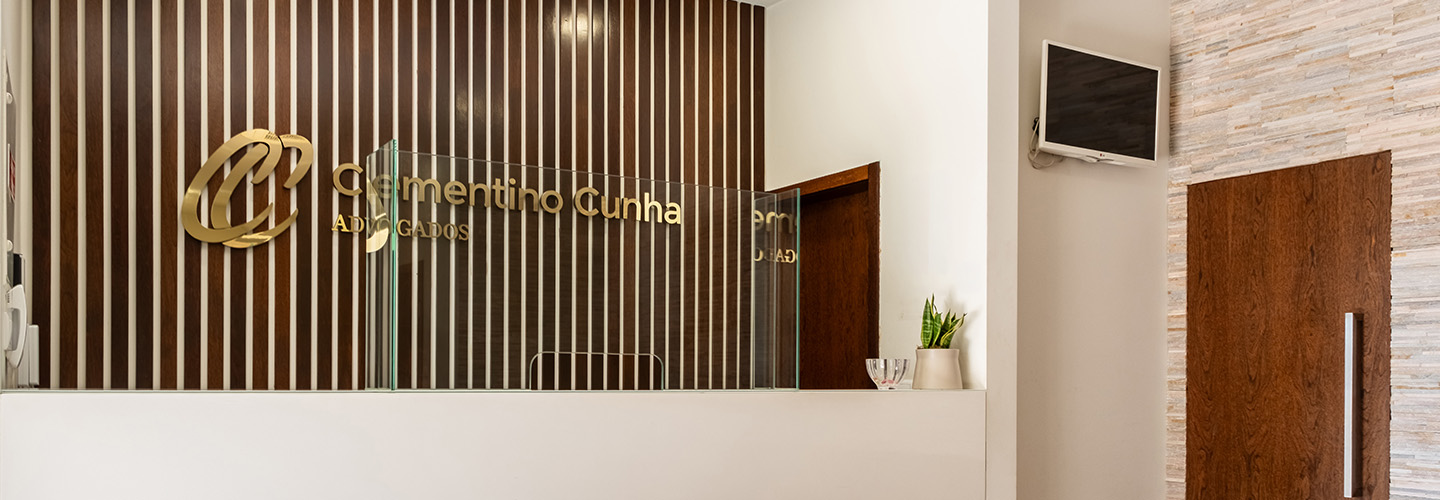
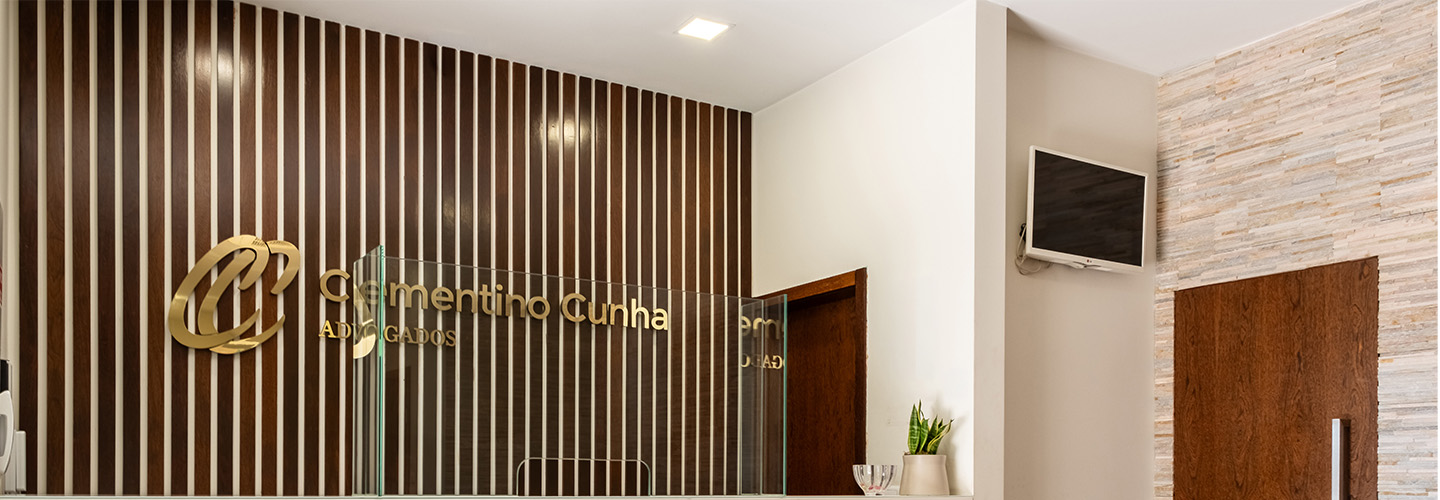
Alterações pontuais

diff --git a/index.html b/index.html
@@ -364,8 +364,6 @@
                         <div class="cca-about-slide" style="background-image: url('assets/img/img antigas/sobrenos2.jpg')"></div>
                         <div class="cca-about-slide" style="background-image: url('assets/img/img antigas/sobrenos1.jpg')"></div>
                         <div class="cca-about-slide" style="background-image: url('assets/img/img antigas/equipe.jpg')"></div>
-                        <div class="cca-about-slide" style="background-image: url('assets/img/escritorio/cc-escritorio-12.jpg')"></div>
-                        <div class="cca-about-slide" style="background-image: url('assets/img/escritorio/cc-fafe-07.jpg')"></div>
                     </div>
                     <button class="cca-about-arrow cca-about-prev" aria-label="Anterior">&#8592;</button>
                     <button class="cca-about-arrow cca-about-next" aria-label="Seguinte">&#8594;</button>
@@ -856,16 +854,16 @@
         <div class="swiper-container cca-bg-swiper">
             <div class="swiper-wrapper">
                 <div class="swiper-slide">
-                    <div class="cca-contact-bg-slide" style="background-image: url('assets/img/img antigas/equipe.jpg')"></div>
+                    <div class="cca-contact-bg-slide" style="background-image: url('assets/img/escritorio/cc-escritorio-17.jpg')"></div>
                 </div>
                 <div class="swiper-slide">
-                    <div class="cca-contact-bg-slide" style="background-image: url('assets/img/escritorio/cc-porto-16.jpg')"></div>
+                    <div class="cca-contact-bg-slide" style="background-image: url('assets/img/escritorio/cc-braga-09.jpg')"></div>
                 </div>
                 <div class="swiper-slide">
-                    <div class="cca-contact-bg-slide" style="background-image: url('assets/img/escritorio/cc-porto-15.jpg')"></div>
+                    <div class="cca-contact-bg-slide" style="background-image: url('assets/img/escritorio/cc-porto-14.jpg')"></div>
                 </div>
                 <div class="swiper-slide">
-                    <div class="cca-contact-bg-slide" style="background-image: url('assets/img/escritorio/cc-fafe-12.jpg')"></div>
+                    <div class="cca-contact-bg-slide" style="background-image: url('assets/img/escritorio/cc-porto-01.jpg')"></div>
                 </div>
             </div>
         </div>

diff --git a/about.html b/about.html
@@ -911,7 +911,8 @@
 <style>
     /* hero parallax: permite que a imagem se mova para fora dos limites do container */
     .breadcrumb-bg-img { overflow: hidden; }
-    .breadcrumb-bg-img img { will-change: transform; object-position: center 60%; }
+    .breadcrumb-bg-img img { will-change: transform; object-position: center 85%; }
+    .breadcrumb-wrap { text-align: right; margin-left: auto; }
     /* história parallax: o conteúdo fica por cima da camada que se move */
     .cca-historia-area { overflow: hidden; }
     .cca-historia-area > .container { position: relative; z-index: 1; }

diff --git a/blog.html b/blog.html
@@ -21,7 +21,8 @@
 
         <style>
             /* hero — enquadramento */
-            .breadcrumb-bg-img img { object-position: center 60%; }
+            .breadcrumb-bg-img img { object-position: center 85%; }
+            .breadcrumb-wrap { text-align: right; margin-left: auto; }
 
             /* ── Layout geral da página ── */
             .cca-blog-page {
